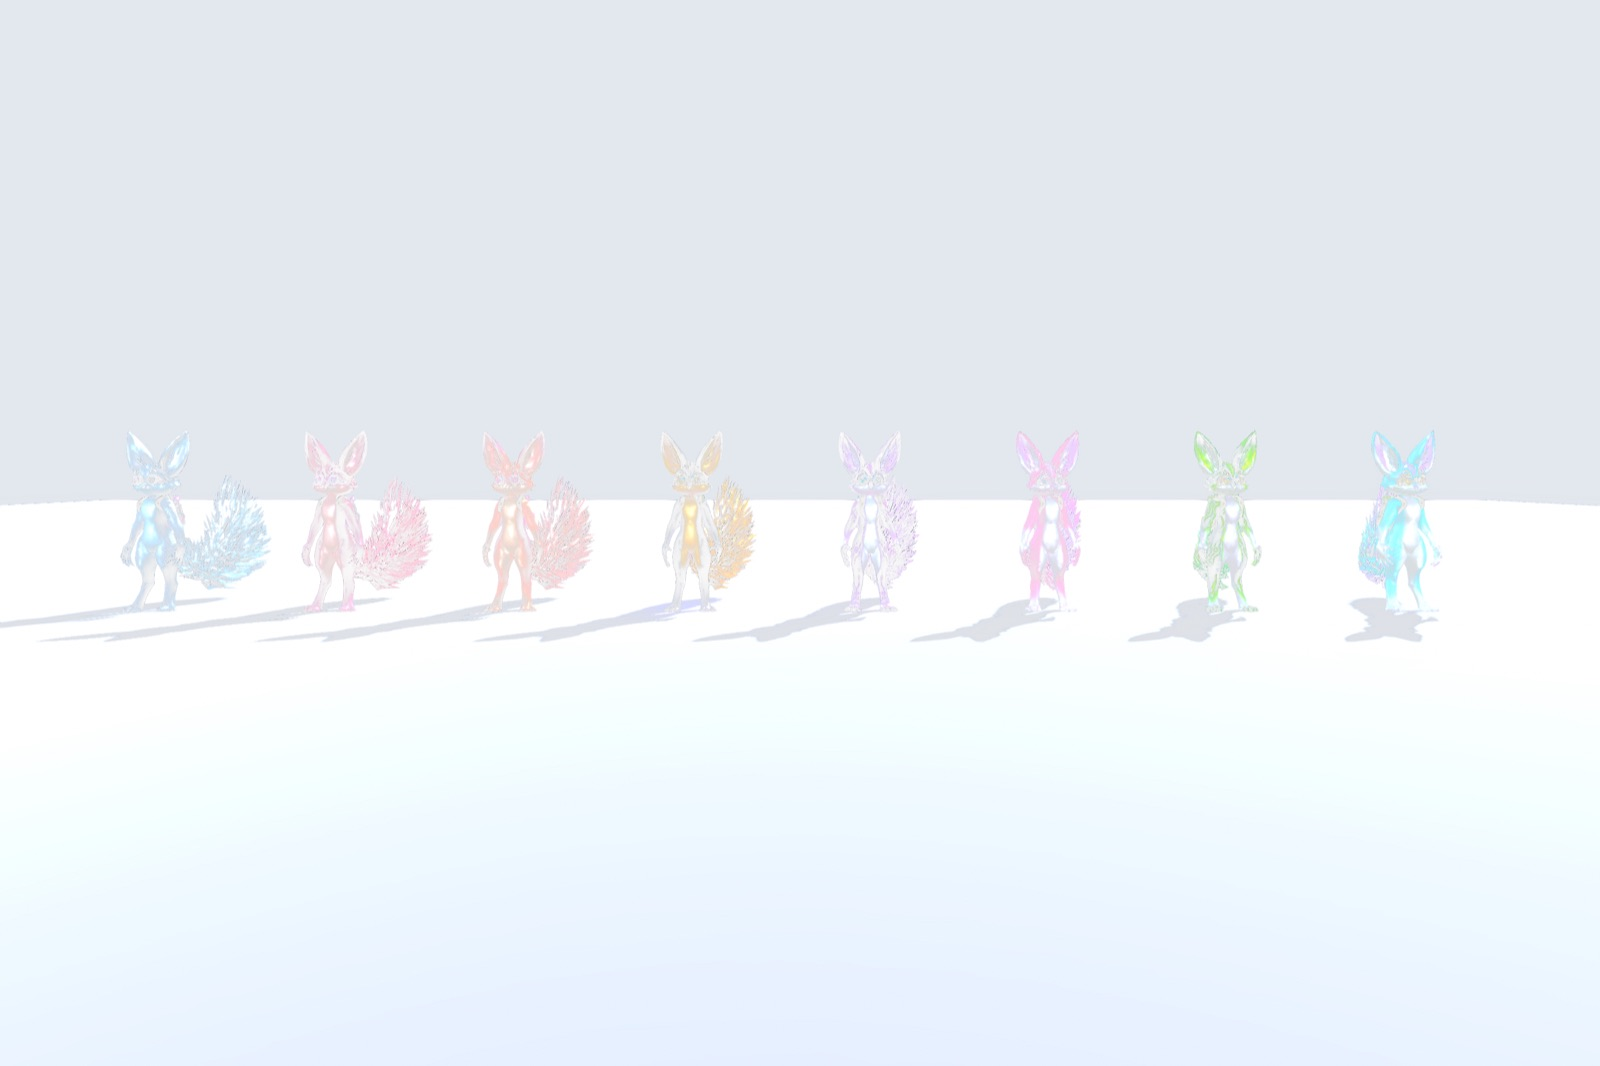
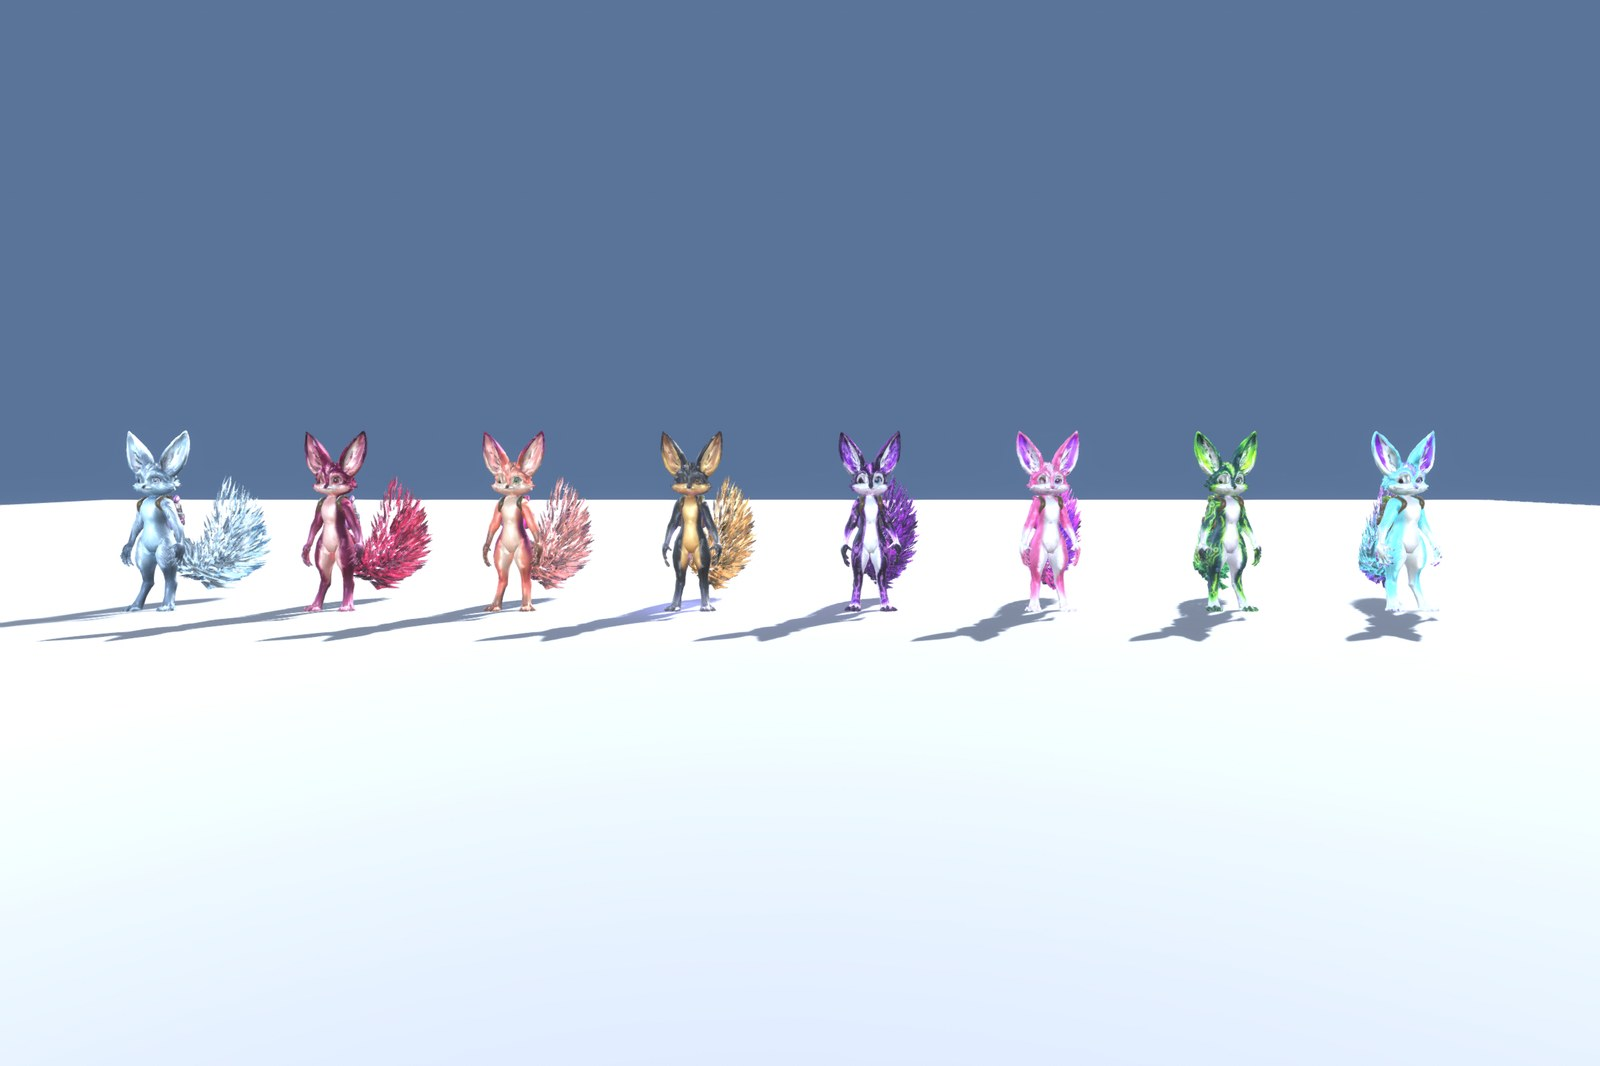
Fix product shots: the web conversion was compositing alpha onto white
Since the 2026-08-11 screenshot refresh, every product shot on the site
has rendered close to pure white. The renders were never damaged — the
PNG-to-JPEG conversion was.

The Unity screenshots are captured on a transparent background, so the
source PNGs are RGBA. The conversion composited them onto a white canvas
using that alpha as a mask. Alpha on the night shots averages 12/255, so
roughly 95% of every pixel became white paper:

  02_lineup_night.png  composited over white -> mean 248.6, stdev  7.2
                       alpha simply dropped  -> mean  42.0, stdev 41.3

The live file measured mean 248.6, stdev 6.9 — the compositing path,
reproduced exactly. props_og and gear_sheet escaped only because their
alpha is fully opaque, which is why those two still looked right.

Rebuilt all ten shots from the same post-retune renders with the alpha
discarded instead, so the current accent colours are preserved. Every
output now matches its source render's histogram.

Added tools/make_web_images.py so the conversion is reproducible, and it
fails loudly if a washed-out frame ever appears again.

diff --git a/tools/make_web_images.py b/tools/make_web_images.py
@@ -1,0 +1,66 @@
+#!/usr/bin/env python3
+"""Rebuild the site's product shots from the Unity store renders.
+
+WHY THIS EXISTS
+---------------
+On 2026-08-11 every product shot on the site turned almost pure white.
+The renders were fine; the web conversion was not.
+
+The Unity screenshots are captured with a TRANSPARENT background, so the
+PNGs are RGBA. Whatever produced the web JPEGs composited them onto a
+white canvas using that alpha as a mask. Alpha on the night shots averages
+about 12/255, so ~95% of every pixel became white paper:
+
+    02_lineup_night.png   composited over white -> mean 248.6, stdev 7.2
+                          alpha simply dropped  -> mean  42.0, stdev 41.3
+
+props_og and gear_sheet survived only because their alpha is fully opaque.
+
+THE RULE
+--------
+JPEG has no alpha. Discard it with .convert("RGB") -- never composite the
+render onto a background. The RGB channels already hold the finished image.
+
+Run:  python3 tools/make_web_images.py [path/to/screenshots]
+"""
+import os, sys
+from PIL import Image, ImageStat
+
+DEFAULT_SRC = ("/Volumes/GABRIEL_VAULT/GVAULT/asset_creation/LanternTail"
+               "/store_20260810/screenshots")
+OUT = os.path.join(os.path.dirname(os.path.dirname(os.path.abspath(__file__))), "assets")
+W, H, QUALITY = 1600, 1066, 88
+
+MAP = {
+    "01_lineup_day.png":         "og2_lineup_day.jpg",
+    "02_lineup_night.png":       "og2_lineup_night.jpg",
+    "03_demo_day.png":           "og2_demo_day.jpg",
+    "04_demo_night.png":         "og2_demo_night.jpg",
+    "05_zombie_lineup_day.png":  "zombie_lineup_day.jpg",
+    "06_zombie_lineup_night.png":"zombie_lineup_night.jpg",
+    "07_zombie_demo.png":        "zombie_demo.jpg",
+    "08_props_og.png":           "props_og.jpg",
+    "09_props_zombie.png":       "props_zombie.jpg",
+    "10_gear_sheet.png":         "gear_sheet.jpg",
+}
+
+def main(src=DEFAULT_SRC):
+    if not os.path.isdir(src):
+        sys.exit(f"Source folder not found: {src}\n"
+                 "Mount GABRIEL_VAULT, or pass the screenshots folder as an argument.")
+    print(f"{'output':26} {'mean':>7} {'min':>5} {'sd':>6}  check")
+    for s, d in MAP.items():
+        p = os.path.join(src, s)
+        if not os.path.exists(p):
+            print(f"{d:26}  MISSING SOURCE {s}"); continue
+        rgb = Image.open(p).convert("RGB").resize((W, H), Image.LANCZOS)
+        rgb.save(os.path.join(OUT, d), "JPEG",
+                 quality=QUALITY, optimize=True, progressive=True)
+        g = rgb.convert("L"); st = ImageStat.Stat(g); lo = g.getextrema()[0]
+        # A correctly converted shot keeps real shadows and real spread.
+        bad = lo > 150 and st.stddev[0] < 20
+        print(f"{d:26} {st.mean[0]:7.1f} {lo:5} {st.stddev[0]:6.1f}  "
+              f"{'*** WASHED OUT — alpha was composited ***' if bad else 'ok'}")
+
+if __name__ == "__main__":
+    main(sys.argv[1] if len(sys.argv) > 1 else DEFAULT_SRC)
